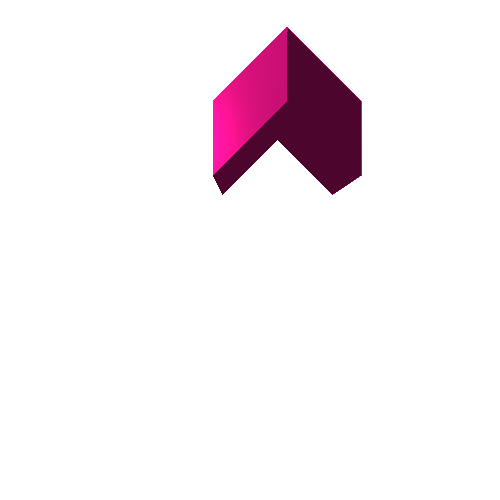
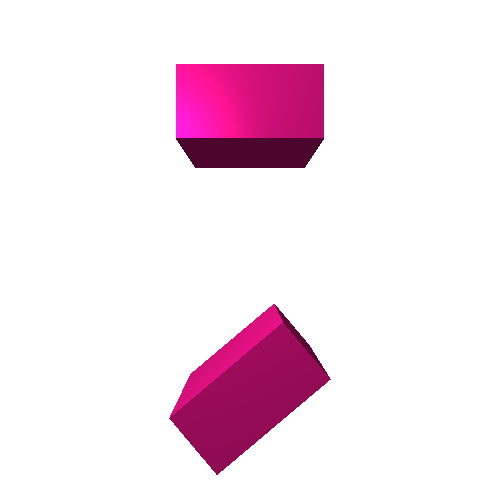
Adding more transformations

Changed region(s): [[0.33, 0.06, 0.75, 0.39], [0.33, 0.6, 0.66, 0.96]]

diff --git a/header/matrix.hpp b/header/matrix.hpp
@@ -3,6 +3,7 @@
 
 #include <cmath>
 #include <vector>
+#include "comparator.hpp"
 #include "vp.hpp"
 
 class matrix{
@@ -148,6 +149,48 @@ class matrix{
             T.M[0][0] = T.M[1][1] = T.M[2][2] = T.M[3][3] = 1;
             T.M[0][0] = -1;
             return T;
+        }
+
+        static matrix house_holder(vp n){
+            matrix normal = matrix::vp_to_matrix(n);
+            matrix HH = matrix::identity(4) - normal*(~normal)*2;
+            HH.M[0][3] = HH.M[1][3] = HH.M[2][3] = HH.M[3][0] = HH.M[3][1] = HH.M[3][2] = 0;
+            HH.M[3][3] = 1;
+            return HH;
+        }
+        
+        static matrix mirror_arbitrary_matrix(vp n, vp p){
+            return matrix::translation_matrix(p)*matrix::house_holder(n)*matrix::translation_matrix(-p); 
+        }
+
+        static matrix new_coordinates_matrix(vp i, vp j, vp k, vp o){ //x' -> x
+            matrix T(4, 4);
+            T.M[0][0] = i.get_x(); T.M[1][0] = i.get_y(); T.M[2][0] = i.get_z();
+            T.M[0][1] = j.get_x(); T.M[1][1] = j.get_y(); T.M[2][1] = j.get_z();
+            T.M[0][2] = k.get_x(); T.M[1][2] = k.get_y(); T.M[2][2] = k.get_z();
+            T.M[0][3] = o.get_x(); T.M[1][3] = o.get_y(); T.M[2][3] = o.get_z();
+            T.M[3][3] = 1;
+            return T;
+        }
+    
+        static matrix new_coordinates_inverse_matrix(vp i, vp j, vp k, vp o){ //x -> x'
+            matrix T(4, 4);
+            T.M[0][0] = i.get_x(); T.M[0][1] = i.get_y(); T.M[0][2] = i.get_z();
+            T.M[1][0] = j.get_x(); T.M[1][1] = j.get_y(); T.M[1][2] = j.get_z();
+            T.M[2][0] = k.get_x(); T.M[2][1] = k.get_y(); T.M[2][2] = k.get_z();
+            T.M[0][3] = -(i*o); T.M[1][3] = -(j*o); T.M[2][3] = -(k*o);
+            T.M[3][3] = 1;
+            return T;
+        }
+
+        static matrix rotation_arbitrary_matrix(vp o, vp direction, double angle){
+            direction = direction/(~direction);
+            vp aux = direction; aux.set_x(direction.get_x()-1);
+            vp j = direction % aux; j = j/(~j);
+            vp i = j % direction;
+            return matrix::new_coordinates_matrix(i, j, direction, o) *
+                   matrix::rotationZ_matrix(angle) *
+                   matrix::new_coordinates_inverse_matrix(i, j, direction, o);
         }
 };
 

diff --git a/main.cpp b/main.cpp
@@ -14,6 +14,7 @@
 #include "header/mesh.hpp"
 #include "header/cube.hpp"
 #include <cmath>
+#include <iostream>
 
 using namespace std;
 
@@ -25,34 +26,23 @@ int main(){
     scene cena(O, vw, c);
 
     cube* cuboa = new cube(px(1., 0.078, 0.576), px(1., 0.078, 0.576), px(1., 0.078, 0.576), 10);
-    // cuboa->rotation_x(0.785398);
-    // cuboa->rotation_y(0.785398);
-    // cuboa->rotation_z(0.785398);
-    // cuboa->transform();
-    cuboa->scaling(vp(50, 50, 50));
-    cuboa->transform();
-    // cuboa->shear_xy(0.785398);
-    cuboa->shear_yx(0.785398);
-    // cuboa->shear_xz(0.785398);
-    // cuboa->shear_zx(0.785398);
-    // cuboa->shear_yz(0.785398);
-    // cuboa->shear_zy(0.785398);
+    cuboa->scaling(vp(100, 50, 50));
     cuboa->transform();
     cuboa->translation(vp(0, 100, -165));
     cuboa->transform();
-    
-    cube* cubob = new cube(px(1., 0.078, 0.576), px(1., 0.078, 0.576), px(1., 0.078, 0.576), 10);
-    cubob->scaling(vp(50, 50, 50));
-    cubob->transform();
-    cubob->shear_yx(0.785398);
-    cubob->transform();
-    cubob->mirror_yz();
-    cubob->transform();
-    cubob->translation(vp(50, 100, -165));
-    cubob->transform();
-    
     cena.add_object(cuboa);
+
+    cube* cubob = new cube(px(1., 0.078, 0.576), px(1., 0.078, 0.576), px(1., 0.078, 0.576), 10);
+    cubob->scaling(vp(100, 50, 50));
+    cubob->transform();
+    // cubob->mirror_xz(); 
+    // cubob->rotation_z(0.7);
+    cubob->rotate_arbitrary(vp(0, 0, 0), vp(0, 0, 1), 0.7);
+    cubob->transform();
+    cubob->translation(vp(0, -100, -165));
+    cubob->transform();
     cena.add_object(cubob);
+    
 
     // cena.add_object(new cilinder(vp(0, -150, -200), vp(0, 1, 0), 5, 90, px(0.824, 0.706, 0.549), px(0.824, 0.706, 0.549), px(0.824, 0.706, 0.549), 10, true, true)); 
     // cena.add_object(new cone(vp(0, -60, -200), vp(0, 1, 0), 90, 150, px(0, 1, 0.498), px(0, 1, 0.498), px(0, 1, 0.498),  10, true)); 

diff --git a/implementation/cube.cpp b/implementation/cube.cpp
@@ -96,3 +96,5 @@ void cube::shear_zy(double angle){ transformations.emplace_back(matrix::shear_zy
 void cube::mirror_xy(){ transformations.emplace_back(matrix::mirroringXY_matrix()); }
 void cube::mirror_xz(){ transformations.emplace_back(matrix::mirroringXZ_matrix()); }
 void cube::mirror_yz(){ transformations.emplace_back(matrix::mirroringYZ_matrix()); }
+void cube::mirror_arbitrary(vp n, vp p){ transformations.emplace_back(matrix::mirror_arbitrary_matrix(n, p)); }
+void cube::rotate_arbitrary(vp o, vp direction, double angle){ transformations.emplace_back(matrix::rotation_arbitrary_matrix(o, direction, angle)); }

diff --git a/header/cube.hpp b/header/cube.hpp
@@ -27,6 +27,8 @@ class cube : public mesh {
         void mirror_xy();
         void mirror_xz();
         void mirror_yz();
+        void mirror_arbitrary(vp n, vp p);
+        void rotate_arbitrary(vp o, vp direction, double angle);
 };
 
 #endif
